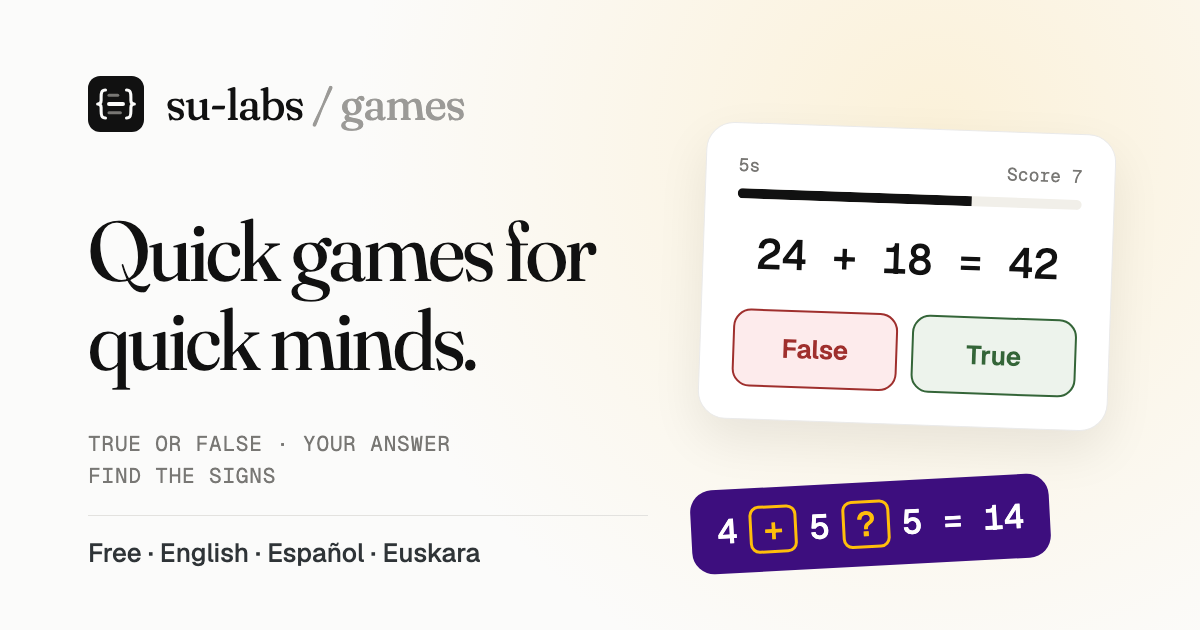
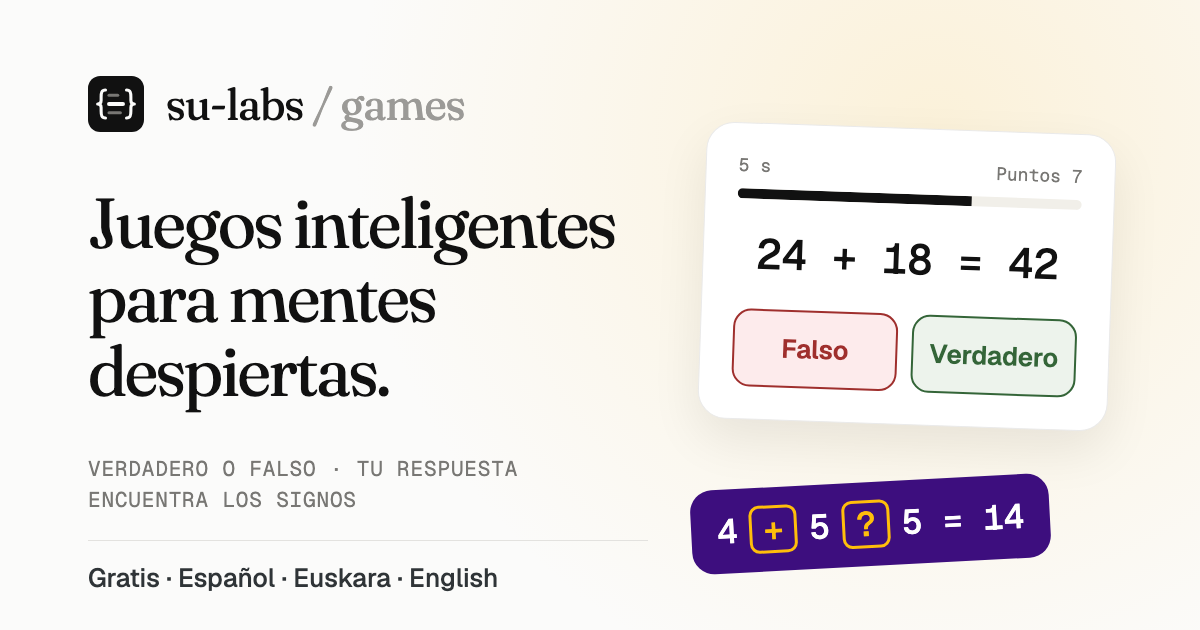
feat(games): Spanish link previews and "mentes despiertas" tagline

diff --git a/games/src/app/core/page-meta.ts b/games/src/app/core/page-meta.ts
@@ -1,6 +1,8 @@
 import { DOCUMENT, inject, Injectable } from '@angular/core';
 import { Meta, Title } from '@angular/platform-browser';
 import { ActivatedRouteSnapshot, RouterStateSnapshot, TitleStrategy } from '@angular/router';
+import { ES } from '../i18n/es';
+import { SiteMessages } from '../i18n/site-messages';
 import { SITE_PREVIEW_IMAGE, SITE_PREVIEW_IMAGE_URL, SITE_URL } from './links';
 
 /** Search and link-preview data of a page, set as route `data` */
@@ -12,8 +14,14 @@ export interface PageMeta {
 
 export const SITE_NAME = 'su-labs games';
 
-const SITE_DESCRIPTION =
-  'Short, free games for kids that train quick thinking. No sign-up, made for tablets, phones and computers.';
+/**
+ * Language of search results and link previews (page titles, descriptions, preview image text).
+ * Spanish for now, as most players are Spanish kids; the site itself still opens in each visitor's language.
+ * The preview image (public/og-image.png) is drawn in this language too.
+ */
+export const PREVIEW_MESSAGES: SiteMessages = ES;
+
+const SITE_DESCRIPTION = PREVIEW_MESSAGES.seo.siteDescription;
 
 /** Route data for the home page and any page without its own description */
 export const SITE_META: PageMeta = { description: SITE_DESCRIPTION };
@@ -45,6 +53,7 @@ export class PageMetaStrategy extends TitleStrategy {
     const tags: Record<string, string> = {
       description,
       'og:type': 'website',
+      'og:locale': PREVIEW_MESSAGES.seo.locale,
       'og:site_name': SITE_NAME,
       'og:title': title,
       'og:description': description,
@@ -53,12 +62,12 @@ export class PageMetaStrategy extends TitleStrategy {
       'og:image:width': SITE_PREVIEW_IMAGE.width,
       'og:image:height': SITE_PREVIEW_IMAGE.height,
       'og:image:type': SITE_PREVIEW_IMAGE.type,
-      'og:image:alt': SITE_PREVIEW_IMAGE.alt,
+      'og:image:alt': PREVIEW_MESSAGES.seo.previewImageAlt,
       'twitter:card': 'summary_large_image',
       'twitter:title': title,
       'twitter:description': description,
       'twitter:image': SITE_PREVIEW_IMAGE_URL,
-      'twitter:image:alt': SITE_PREVIEW_IMAGE.alt,
+      'twitter:image:alt': PREVIEW_MESSAGES.seo.previewImageAlt,
     };
     for (const [key, content] of Object.entries(tags)) {
       const attribute = key.startsWith('og:') ? 'property' : 'name';

diff --git a/games/src/app/app.routes.ts b/games/src/app/app.routes.ts
@@ -1,26 +1,26 @@
 import { Route, Routes } from '@angular/router';
-import { EN } from './i18n/en';
-import { SITE_META, SITE_NAME } from './core/page-meta';
+import { PREVIEW_MESSAGES, SITE_META, SITE_NAME } from './core/page-meta';
+
+const { seo, home, games } = PREVIEW_MESSAGES;
 
 /** The not-found page: prerendered at /404 (copied to 404.html after the build) and shown for unknown links */
 const notFound = {
-  title: `Page not found · ${SITE_NAME}`,
-  data: { description: 'This page doesn’t exist.', noIndex: true },
+  title: `${seo.notFoundTitle} · ${SITE_NAME}`,
+  data: { description: seo.notFoundDescription, noIndex: true },
   loadComponent: () => import('./pages/not-found/not-found-page').then((m) => m.NotFoundPage),
 } satisfies Omit<Route, 'path'>;
 
 export const routes: Routes = [
   {
     path: '',
-    title: `${SITE_NAME}: free games for kids`,
+    title: `${home.title} · ${SITE_NAME}`,
     data: SITE_META,
     loadComponent: () => import('./pages/home/home-page').then((m) => m.HomePage),
   },
   {
-    // Titles and descriptions for search engines and link previews stay in English
     path: 'math-games',
-    title: `${EN.games['math-games'].name}: true or false, number pad and missing signs · ${SITE_NAME}`,
-    data: { description: `A math game for kids. ${EN.games['math-games'].summary}` },
+    title: `${games['math-games'].name}: ${seo.mathGamesSubtitle} · ${SITE_NAME}`,
+    data: { description: `${seo.mathGamesIntro} ${games['math-games'].summary}` },
     loadComponent: () => import('./pages/math-games/math-games-page').then((m) => m.MathGamesPage),
   },
   { path: '404', ...notFound },

diff --git a/games/src/app/i18n/es.ts b/games/src/app/i18n/es.ts
@@ -18,6 +18,17 @@ export const ES: SiteMessages = {
     projectLinks: 'Enlaces del proyecto',
   },
 
+  seo: {
+    locale: 'es_ES',
+    siteDescription:
+      'Juegos cortos y gratuitos para que los niños piensen rápido. Sin registro, para tabletas, móviles y ordenadores.',
+    mathGamesSubtitle: 'verdadero o falso, teclado numérico y signos que faltan',
+    mathGamesIntro: 'Un juego de matemáticas para niños.',
+    notFoundTitle: 'Página no encontrada',
+    notFoundDescription: 'Esta página no existe.',
+    previewImageAlt: 'su-labs games: Juegos inteligentes para mentes despiertas',
+  },
+
   games: {
     'math-games': {
       name: 'Juegos de matemáticas',
@@ -27,7 +38,7 @@ export const ES: SiteMessages = {
   },
 
   home: {
-    title: 'Juegos inteligentes',
+    title: 'Juegos inteligentes para mentes despiertas',
     lead: 'Juegos cortos para pensar rápido.',
     rule: 'Gratis, sin registro, y funcionan en móviles y tabletas.',
     games: 'Juegos',

diff --git a/games/src/app/i18n/eu.ts b/games/src/app/i18n/eu.ts
@@ -18,6 +18,17 @@ export const EU: SiteMessages = {
     projectLinks: 'Proiektuaren estekak',
   },
 
+  seo: {
+    locale: 'eu_ES',
+    siteDescription:
+      'Haurrek azkar pentsatzeko joko labur eta doakoak. Izena eman gabe, tableta, mugikor eta ordenagailuetarako.',
+    mathGamesSubtitle: 'egia ala gezurra, zenbaki-teklatua eta falta diren zeinuak',
+    mathGamesIntro: 'Haurrentzako matematika jokoa.',
+    notFoundTitle: 'Orria ez da aurkitu',
+    notFoundDescription: 'Orri hau ez dago.',
+    previewImageAlt: 'su-labs games: Joko adimentsuak, haur adimentsuentzat',
+  },
+
   games: {
     'math-games': {
       name: 'Matematika jokoak',
@@ -27,7 +38,7 @@ export const EU: SiteMessages = {
   },
 
   home: {
-    title: 'Joko adimentsuak',
+    title: 'Joko adimentsuak, haur adimentsuentzat',
     lead: 'Azkar pentsatzeko joko laburrak.',
     rule: 'Doan, izena eman gabe, eta mugikorretan eta tabletetan dabiltza.',
     games: 'Jokoak',

diff --git a/games/src/app/i18n/en.ts b/games/src/app/i18n/en.ts
@@ -18,6 +18,17 @@ export const EN: SiteMessages = {
     projectLinks: 'Project links',
   },
 
+  seo: {
+    locale: 'en_US',
+    siteDescription:
+      'Short, free games for kids that train quick thinking. No sign-up, made for tablets, phones and computers.',
+    mathGamesSubtitle: 'true or false, number pad and missing signs',
+    mathGamesIntro: 'A math game for kids.',
+    notFoundTitle: 'Page not found',
+    notFoundDescription: 'This page doesn’t exist.',
+    previewImageAlt: 'su-labs games: Smart games, for smart kids',
+  },
+
   games: {
     'math-games': {
       name: 'Math games',
@@ -27,7 +38,7 @@ export const EN: SiteMessages = {
   },
 
   home: {
-    title: 'Smart games',
+    title: 'Smart games, for smart kids',
     lead: 'Short games that train quick thinking.',
     rule: 'Free, no sign-up, and they work on phones and tablets.',
     games: 'Games',

diff --git a/games/src/app/i18n/site-messages.ts b/games/src/app/i18n/site-messages.ts
@@ -34,6 +34,20 @@ export interface SiteMessages {
     readonly projectLinks: string;
   };
 
+  /** Titles, descriptions and image text for search results and link previews */
+  readonly seo: {
+    /** Open Graph locale, e.g. `es_ES` */
+    readonly locale: string;
+    readonly siteDescription: string;
+    /** Follows the game's name in its page title */
+    readonly mathGamesSubtitle: string;
+    /** Comes before the game's summary in its description */
+    readonly mathGamesIntro: string;
+    readonly notFoundTitle: string;
+    readonly notFoundDescription: string;
+    readonly previewImageAlt: string;
+  };
+
   /** Name and description of each game */
   readonly games: Readonly<Record<GameSlug, { readonly name: string; readonly summary: string }>>;
 

diff --git a/games/src/app/core/links.ts b/games/src/app/core/links.ts
@@ -4,12 +4,11 @@ export const SITE_URL = 'https://games.su-labs.dev';
 /** Image shown when a page is shared (1200x630, in games/public) */
 export const SITE_PREVIEW_IMAGE_URL = `${SITE_URL}/og-image.png`;
 
-/** Size, type and description of the preview image, declared so chat apps render it without probing the file */
+/** Size and type of the preview image, declared so chat apps render it without probing the file (its alt text is translated) */
 export const SITE_PREVIEW_IMAGE = {
   width: '1200',
   height: '630',
   type: 'image/png',
-  alt: 'su-labs games: free games for kids',
 } as const;
 
 /** The main su-labs site, linked from the header and footer */

diff --git a/games/src/index.html b/games/src/index.html
@@ -2,8 +2,8 @@
 <html lang="en">
 <head>
   <meta charset="utf-8">
-  <title>su-labs games: free games for kids</title>
-  <meta name="description" content="Short, free games for kids that train quick thinking. No sign-up, made for tablets, phones and computers.">
+  <title>Juegos inteligentes para mentes despiertas · su-labs games</title>
+  <meta name="description" content="Juegos cortos y gratuitos para que los niños piensen rápido. Sin registro, para tabletas, móviles y ordenadores.">
   <base href="/">
   <meta name="viewport" content="width=device-width, initial-scale=1">
   <link rel="icon" type="image/svg+xml" href="favicon.svg">

diff --git a/web/src/app/pages/home/home-page.html b/web/src/app/pages/home/home-page.html
@@ -57,7 +57,7 @@
 <section class="container section">
   <div class="section-head" appReveal>
     <p class="eyebrow">Smart games</p>
-    <h2>Quick games for quick minds.</h2>
+    <h2>Smart games, for smart kids.</h2>
     <p class="muted">Short, free games for kids. They work on phones, tablets and computers.</p>
   </div>
   <a class="card utility-card tool-card" [href]="gamesUrl" appReveal>
